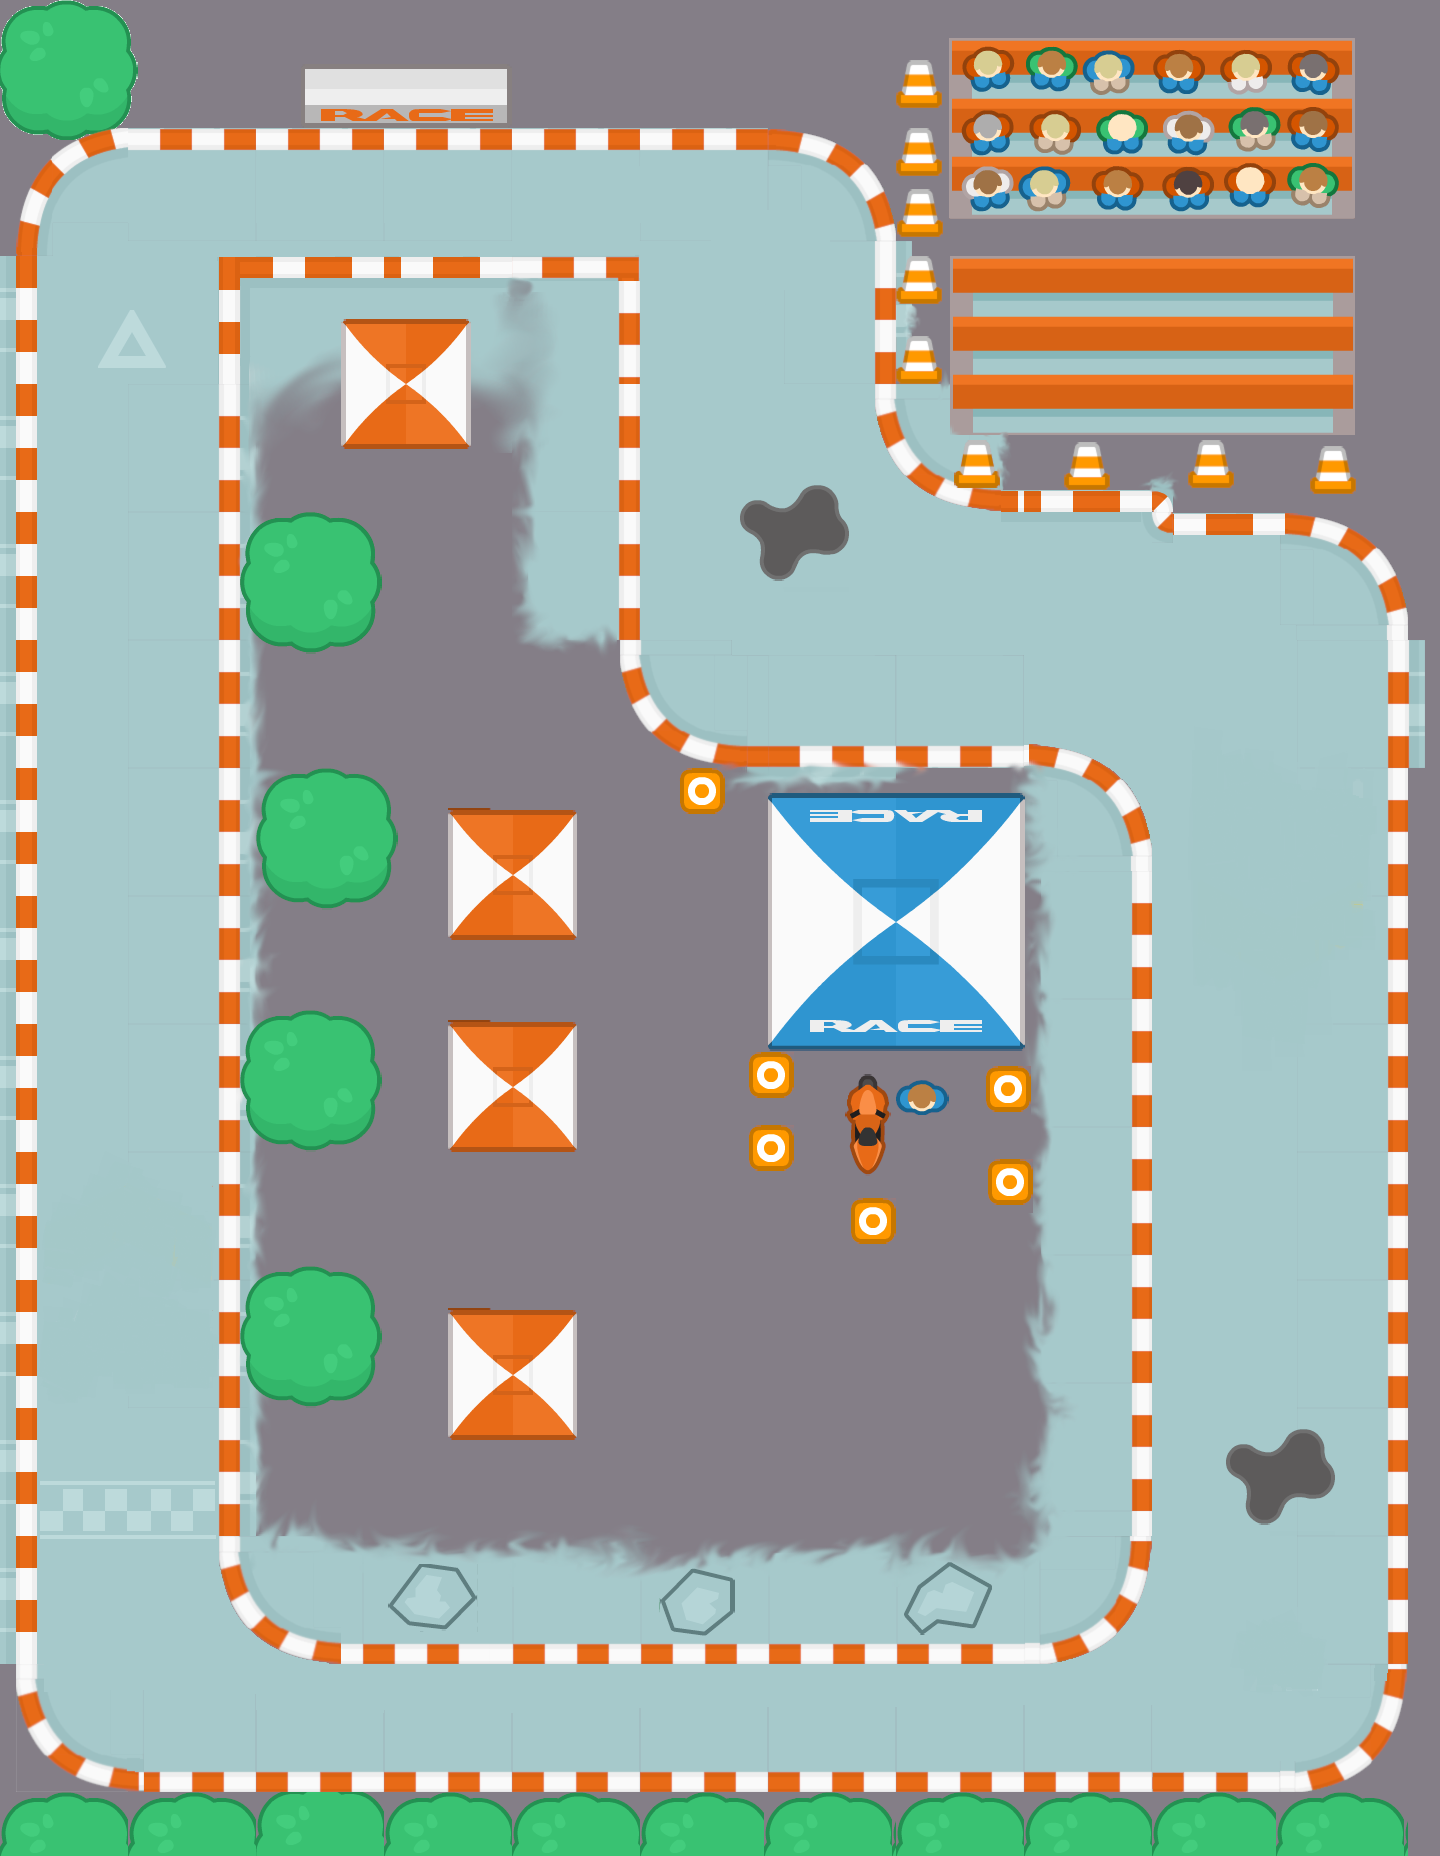
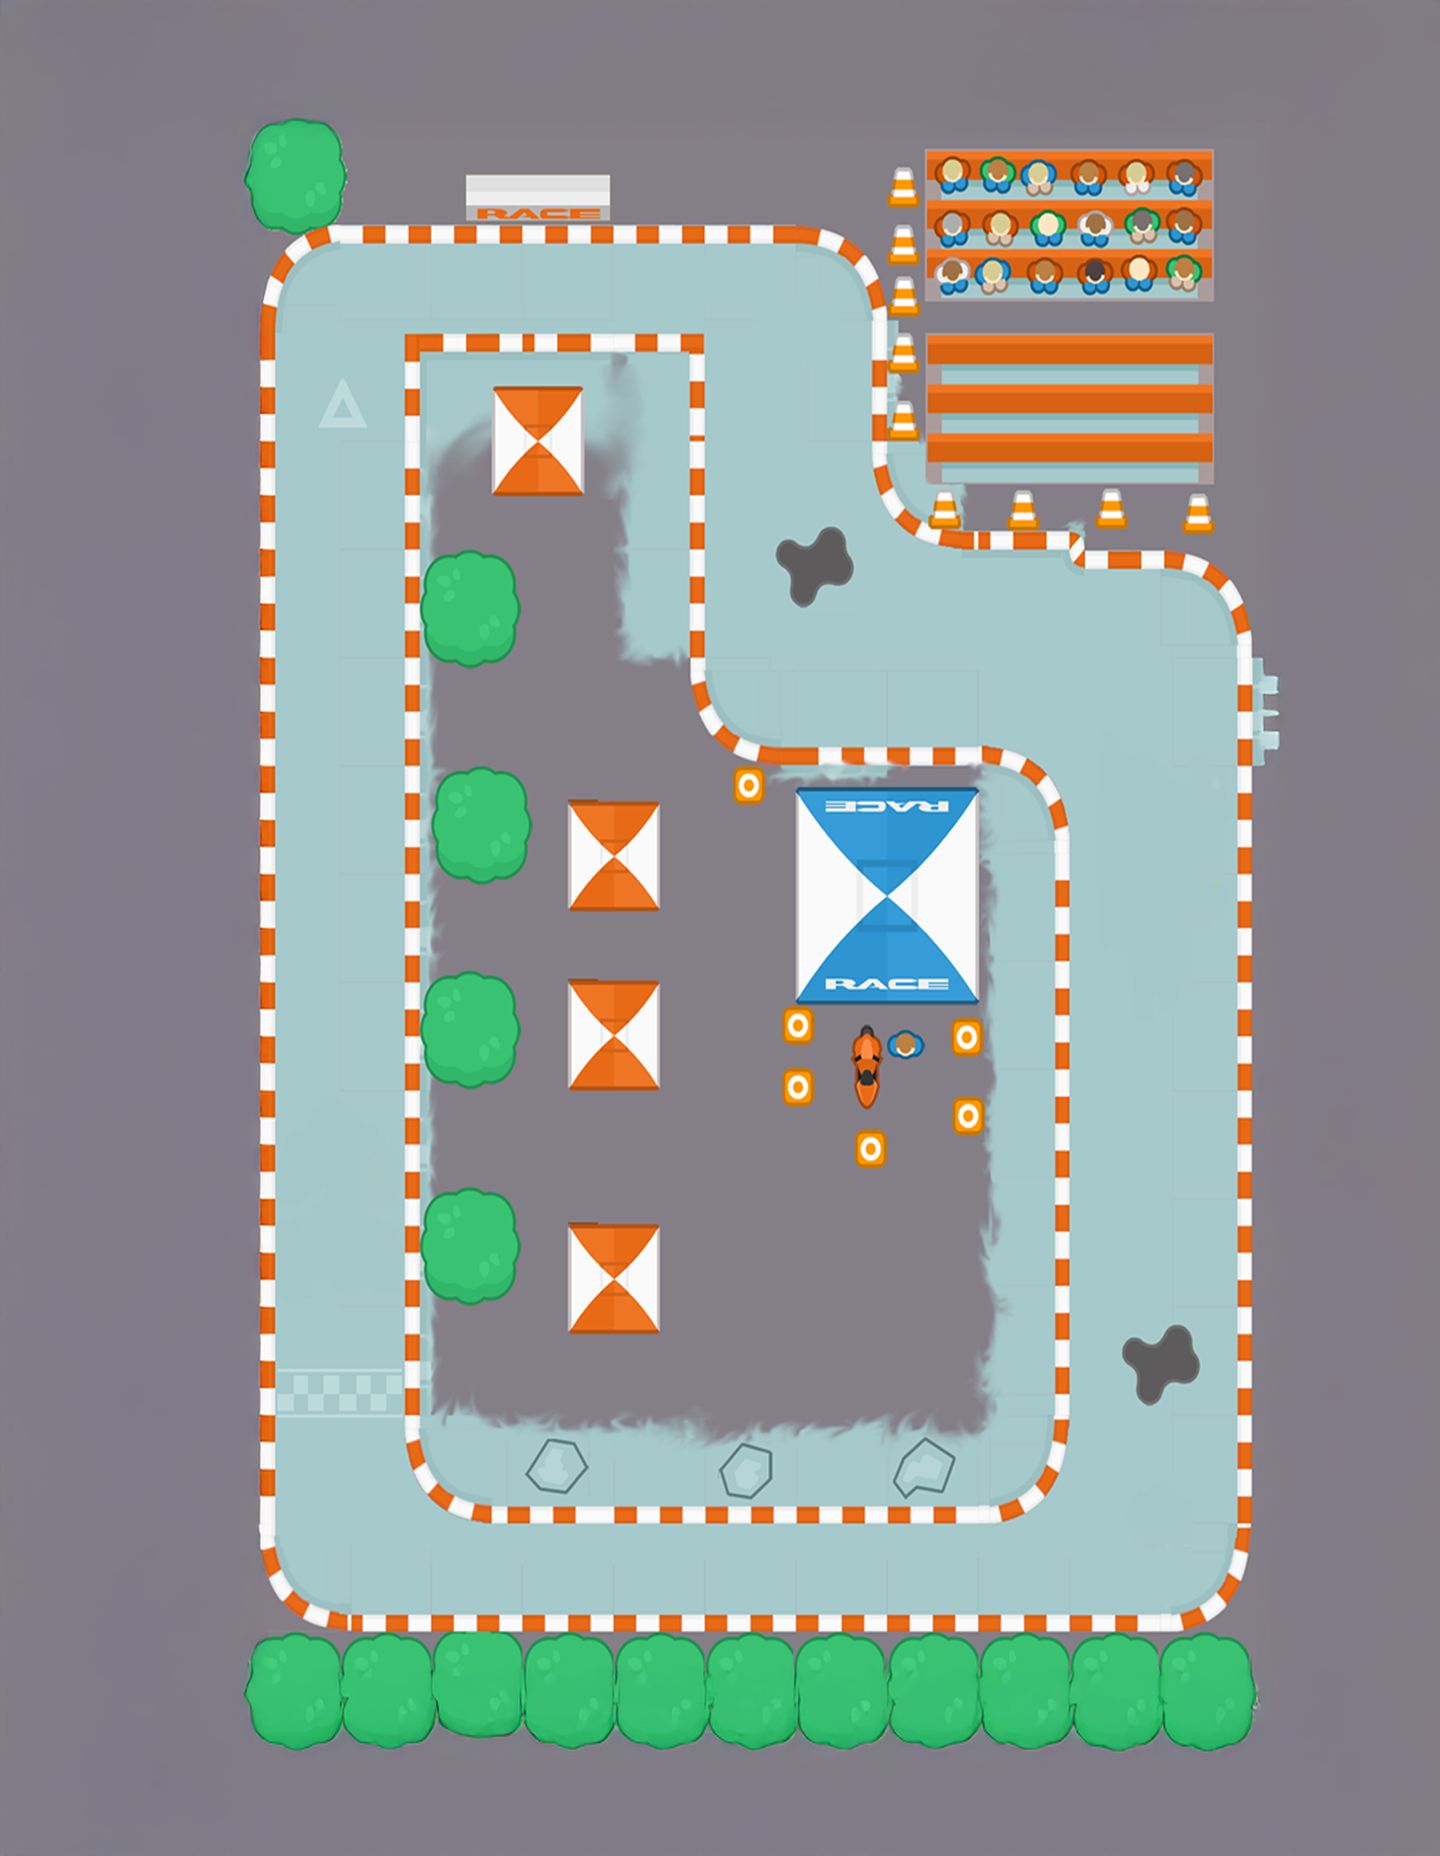
map update

diff --git a/gamescene.cpp b/gamescene.cpp
@@ -19,7 +19,7 @@ GameScene::GameScene(QObject *parent)
 
     m_bgItem = new QGraphicsPixmapItem(m_bgPixmap[m_mapIdx]);
     //m_bgItem->setTransformationMode(Qt::SmoothTransformation);
-    m_bgItem->setScale(2);
+    m_bgItem->setScale(m_game.gamescale);
     addItem(m_bgItem);
 
     for (int i = 0; i < Game::COUNT_OF_CARS; ++i) {
@@ -124,7 +124,7 @@ void GameScene::carMovement()
 
 
     // Get the pixel value at the car's position
-    QRgb pixelValue = bgImage.pixel(m_game.car[0].x/2, m_game.car[0].y/2);
+    QRgb pixelValue = bgImage.pixel(m_game.car[0].x/m_game.gamescale, m_game.car[0].y/m_game.gamescale);
 
     // Extract RGB components
      int red = qRed(pixelValue);
@@ -134,8 +134,8 @@ void GameScene::carMovement()
     int newX = m_game.car[0].x + sin(m_game.car[0].angle) * m_game.car[0].speed;
     int newY = m_game.car[0].y - cos(m_game.car[0].angle) * m_game.car[0].speed;
 
-    int pixelX = newX / 2;
-    int pixelY = newY / 2;
+    int pixelX = newX / m_game.gamescale;
+    int pixelY = newY / m_game.gamescale;
 
 
     // Get the pixel value at the car's position
@@ -219,12 +219,13 @@ void GameScene::renderScene()
     qDebug() << "saved " << fileName;
 }
 
+
 void GameScene::update()
 {
     clear();
     QGraphicsPixmapItem* bgItem = new QGraphicsPixmapItem(m_bgPixmap[m_mapIdx]);
     //bgItem->setTransformationMode(Qt::SmoothTransformation);
-    bgItem->setScale(2);
+    bgItem->setScale(m_game.gamescale);
     addItem(bgItem);
 
 //    QGraphicsPixmapItem* carItem = new QGraphicsPixmapItem(m_carPixmap);
@@ -238,8 +239,8 @@ void GameScene::update()
     carCollision();
     //getPixelValueAtCarPosition();
 
-    m_game.offsetX = m_game.car[0].x-320;
-    m_game.offsetY = m_game.car[0].y-240;
+    m_game.offsetX = m_game.car[0].x-160 * m_game.gamescale;
+    m_game.offsetY = m_game.car[0].y-120 * m_game.gamescale;
 
     bgItem->setPos(-m_game.offsetX, -m_game.offsetY);
 
@@ -361,4 +362,6 @@ void GameScene::setAngleDirection(double angle)
 void GameScene::setMapIdx(int mapIdx)
 {
     m_mapIdx = mapIdx;
+
+    m_game.resetGameData(mapIdx);
 }

diff --git a/game.cpp b/game.cpp
@@ -1,5 +1,7 @@
 #include "game.h"
 
+#include <QDebug>
+
 const int Game::num_checkpoints = 8;
 //orginal point bg.png 1x1
 /*
@@ -30,13 +32,17 @@ Game::Game()
     : PATH_TO_BACKGROUND_PIXMAP{QString(":/images/bg0.png"), QString(":/images/bg1.png")}, PATH_TO_CAR_PIXMAP{QString(":/images/car0.png"), QString(":/images/car1.png"), QString(":/images/car2.png"), QString(":/images/car3.png"), QString(":/images/car4.png")}, ITERATION_VALUE(1000.0f/200.0f),
       car_R(22), speed(0), angle(0), maxSpeed(20), acc(2.0f), dec(2.0f), turnSpeed(0.08), offsetX(0), offsetY(0)
 {
-    for(int i=0; i < COUNT_OF_CARS;i++)
-    {
-      car[i] = Car(num_checkpoints, points);
-      car[i].x = 400+i*50;
-      car[i].y = 3480+i*80;
-      car[i].speed = 20+i;
-    }
+    car_R = 22;
+    speed = 0;
+    angle = 0;
+    maxSpeed = 20; 
+    acc = 2.0f;
+    dec = 2.0f;
+    turnSpeed = 0.08;
+    offsetX = 0;
+    offsetY = 0;
+    car[0].x =420;
+    car[0].y = 4680;
     /*
      * cars` center
      *  0) 41x65
@@ -61,8 +67,8 @@ void Game::resetGameData(int mapIdx)
         turnSpeed = 0.08;
         offsetX = 0;
         offsetY = 0;
-        car[0].x =280;
-        car[0].y = 3120;
+        car[0].x = 220 * gamescale;
+        car[0].y = 1500 * gamescale;
         qDebug() << "Game data reset for map 0";
     }
     else if (mapIdx == 1)
@@ -76,8 +82,8 @@ void Game::resetGameData(int mapIdx)
         turnSpeed = 0.08;
         offsetX = 0;
         offsetY = 0;
-        car[0].x = 500;
-        car[0].y = 2600;
+        car[0].x = 250 * gamescale;
+        car[0].y = 1300 * gamescale;
         qDebug() << "Game data reset for map 1";
     }
     else

diff --git a/game.h b/game.h
@@ -28,6 +28,7 @@ public:
    float maxSpeed;
    float acc, dec;
    float turnSpeed;
+   float gamescale;
 
    int offsetX,offsetY;
 };
